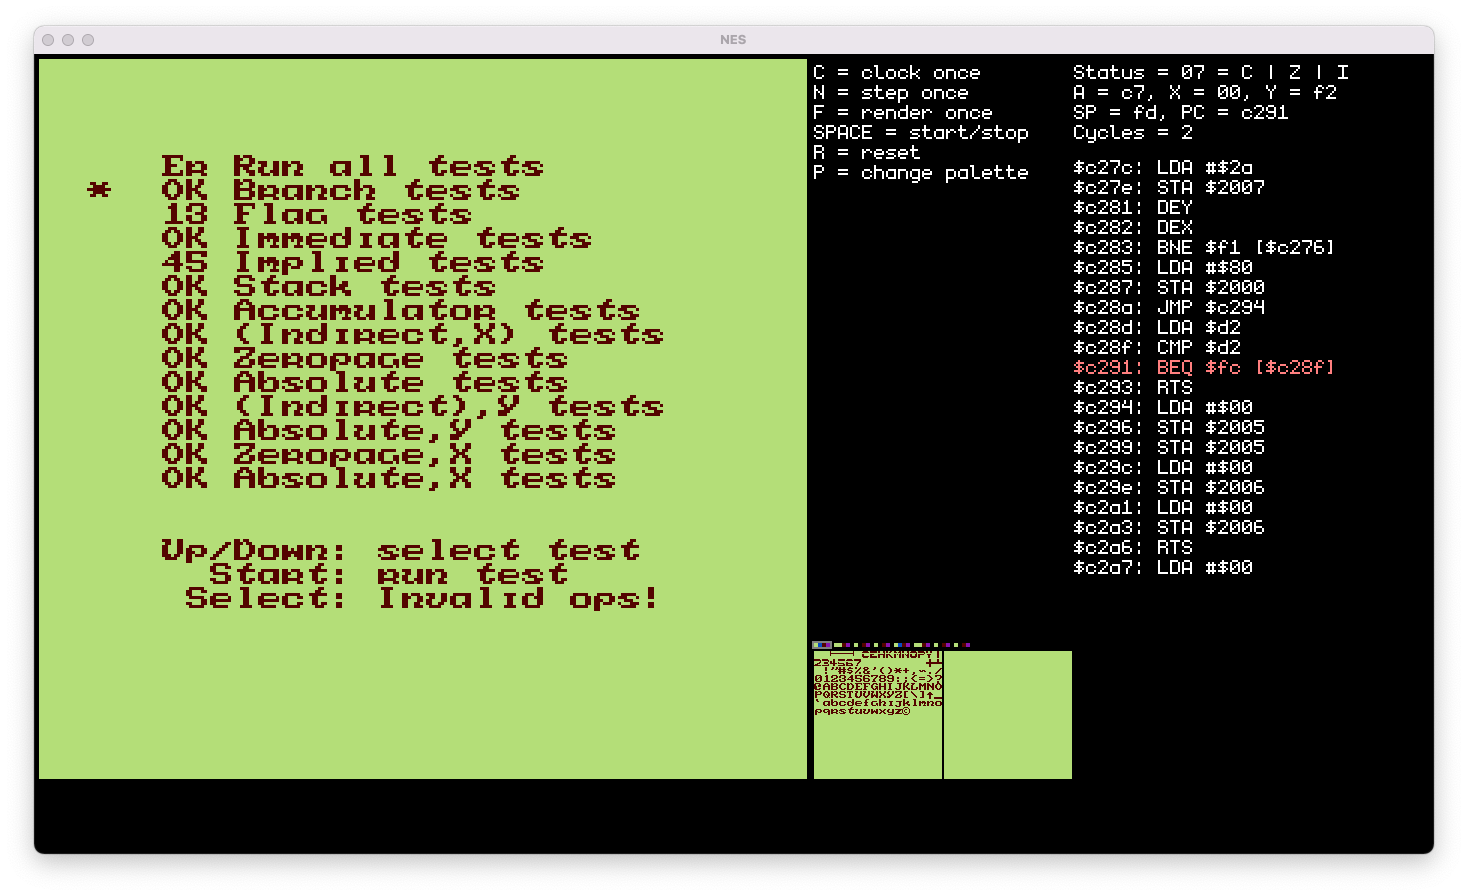
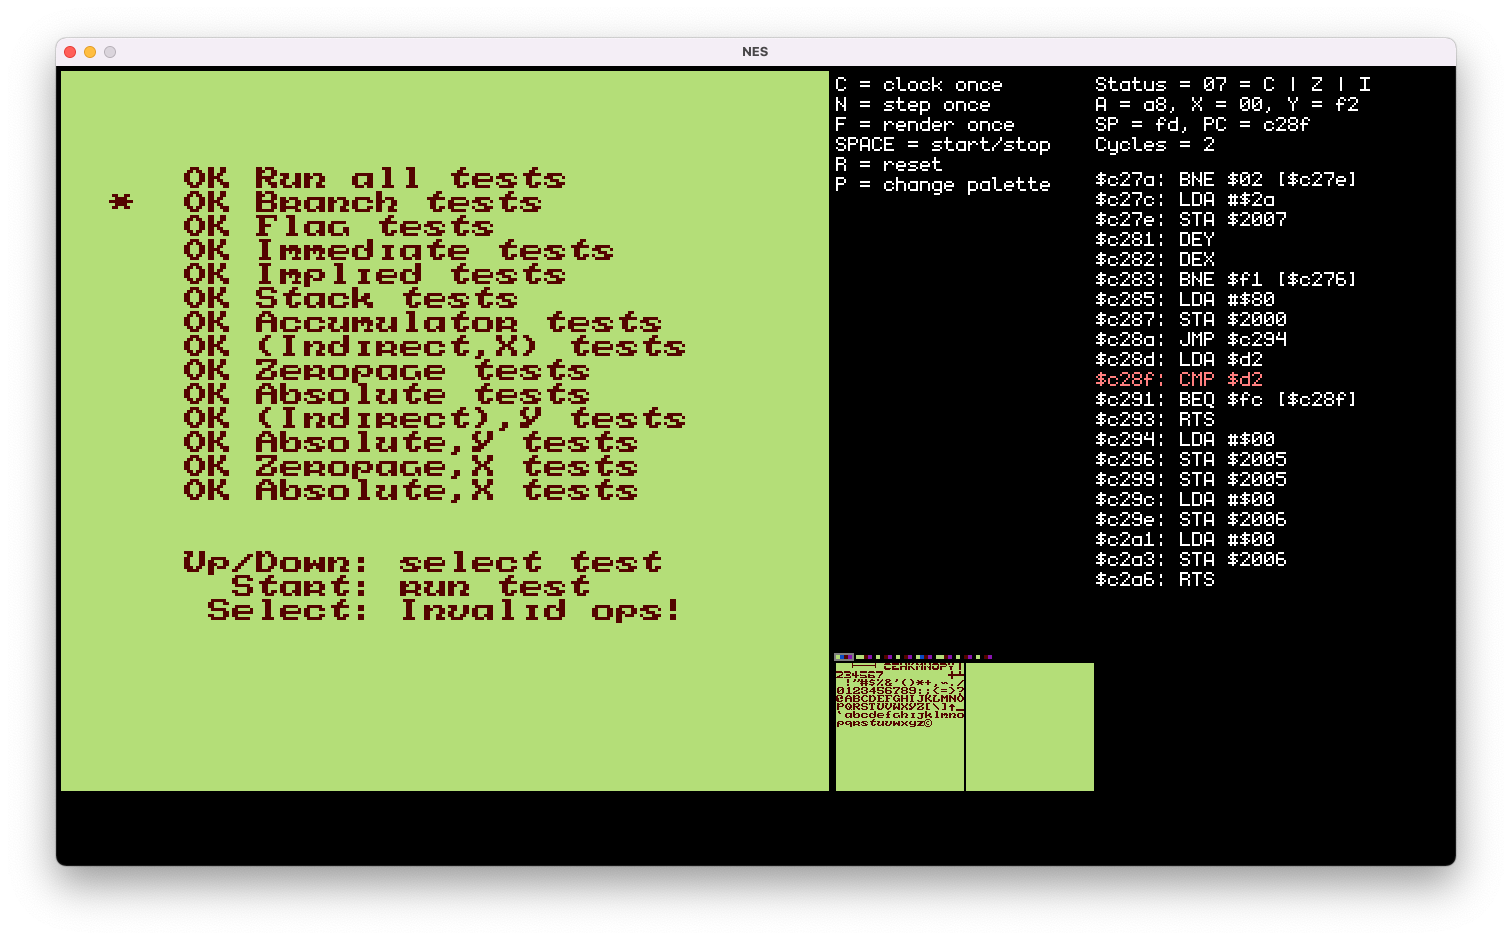
fix tests failing

Changed region(s): [[0.0, 0.0312, 0.9809, 0.9688]]

diff --git a/src/r6502.cpp b/src/r6502.cpp
@@ -234,21 +234,31 @@ bool R6502::calculate_operation(Bus &bus,
 
     case TAX:
         x = a;
+        set_flag(N, x & 0x80);
+        set_flag(Z, x == 0);
         return false;
     case TAY:
         y = a;
+        set_flag(N, y & 0x80);
+        set_flag(Z, y == 0);
         return false;
     case TSX:
         x = sp;
+        set_flag(N, x & 0x80);
+        set_flag(Z, x == 0);
         return false;
     case TXA:
         a = x;
+        set_flag(N, a & 0x80);
+        set_flag(Z, a == 0);
         return false;
     case TXS:
         sp = x;
         return false;
     case TYA:
         a = y;
+        set_flag(N, a & 0x80);
+        set_flag(Z, a == 0);
         return false;
 
     // stack
@@ -258,7 +268,9 @@ bool R6502::calculate_operation(Bus &bus,
         return false;
 
     case PHP:
-        write(bus, 0x100 + sp--, status);
+        write(bus, 0x100 + sp--, status | B | U);
+        set_flag(B, false);
+        set_flag(U, false);
         return false;
 
     case PLA:
